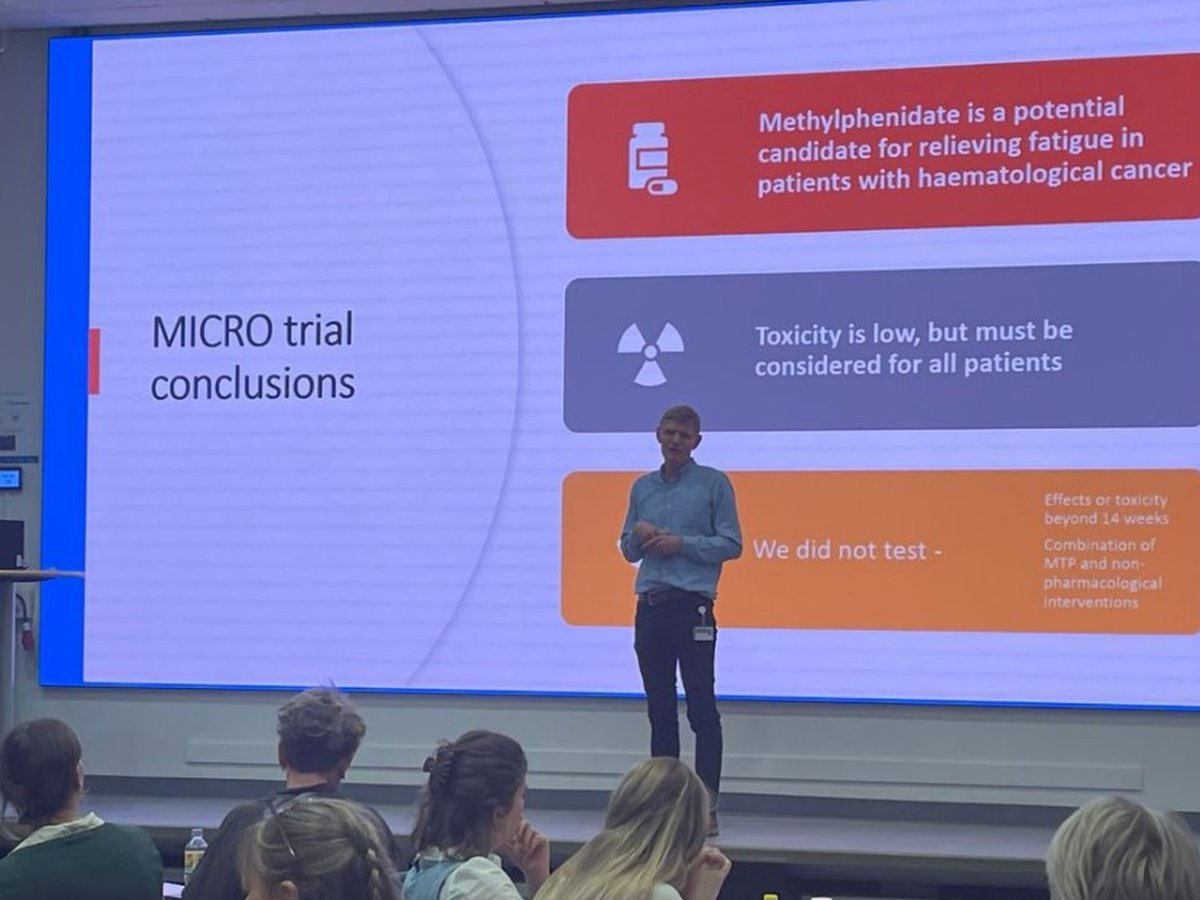
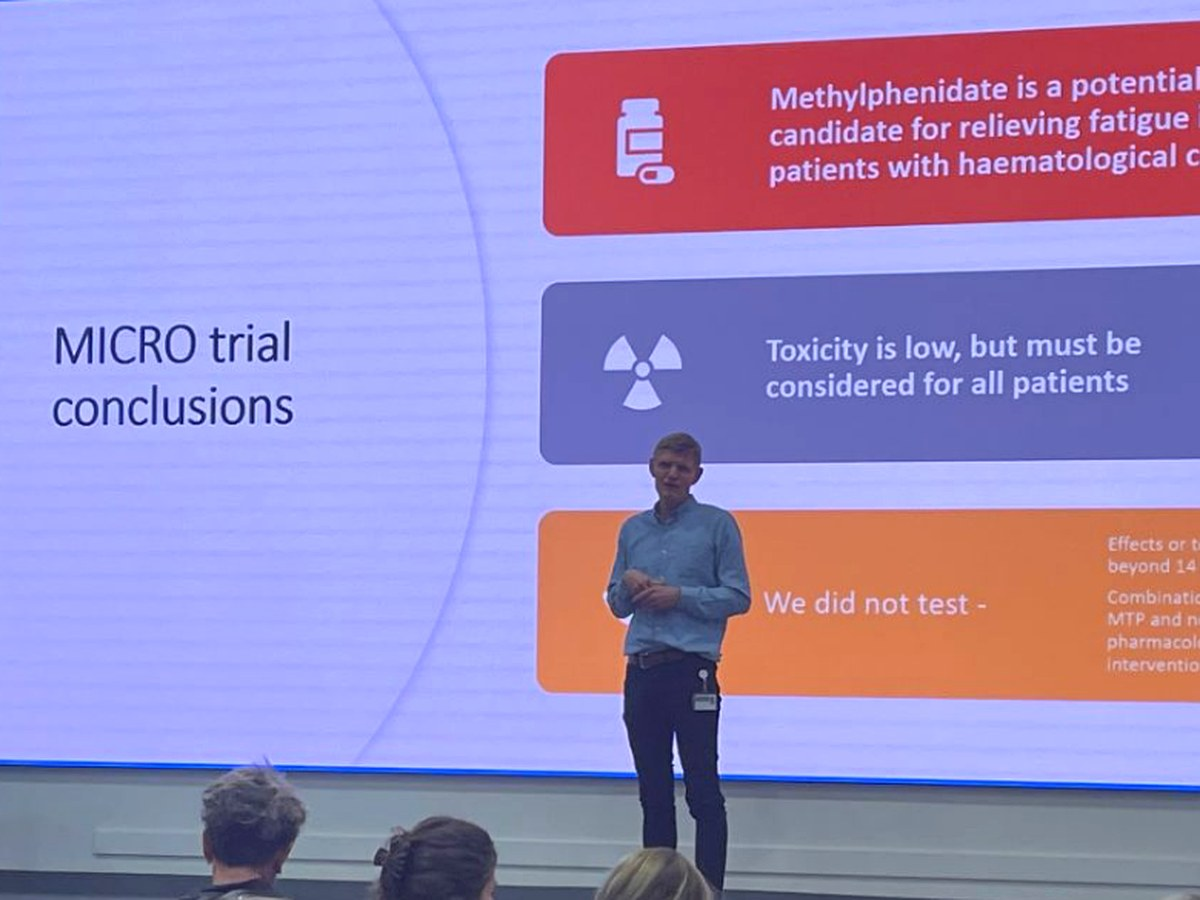
News: closer, brighter Research in Focus photo of Henrik; mention MICRO talk
Claude-Session: https://claude.ai/code/session_0113jsotCNfxH92ByqoEKTTC

diff --git a/index.html b/index.html
@@ -153,7 +153,7 @@
   <div class="card-body">
     <p class="news-date"><time datetime="2026-10-28">October 28, 2026</time></p>
     <h3>Research in Focus at the Department of Hematology</h3>
-    <p>Colleagues from across the Department of Hematology at Odense University Hospital gathered for the annual Research in Focus (Forskning i fokus) afternoon, organized by Henrik Frederiksen. The program covered acute leukemia and hematopathology, lymphoma and cellular therapies, multiple myeloma and amyloidosis, home-based treatment and supportive care, quality of life and population-based research, and benign hematology and frailty. Hans Henrik Knudsen, who is a patient representative in Lene Kongsgaard Nielsen&#x27;s quality of life research at QoLRC, spoke about the role of patient involvement in research. From QoLRC, Henrik Frederiksen, Pia Pedersen, Tine Rosenberg, Anne Møller Clausen and Klara Rydahl presented their work.</p>
+    <p>Colleagues from across the Department of Hematology at Odense University Hospital gathered for the annual Research in Focus (Forskning i fokus) afternoon, organized by Henrik Frederiksen, who also presented the conclusions of the MICRO trial of methylphenidate for fatigue in patients with hematologic cancer. The program covered acute leukemia and hematopathology, lymphoma and cellular therapies, multiple myeloma and amyloidosis, home-based treatment and supportive care, quality of life and population-based research, and benign hematology and frailty. Hans Henrik Knudsen, who is a patient representative in Lene Kongsgaard Nielsen&#x27;s quality of life research at QoLRC, spoke about the role of patient involvement in research. From QoLRC, Henrik Frederiksen, Pia Pedersen, Tine Rosenberg, Anne Møller Clausen and Klara Rydahl presented their work.</p>
     
   </div>
 </li><li class="card news-card">

diff --git a/news/index.html b/news/index.html
@@ -68,7 +68,7 @@
   <div class="card-body">
     <p class="news-date"><time datetime="2026-10-28">October 28, 2026</time></p>
     <h3>Research in Focus at the Department of Hematology</h3>
-    <p>Colleagues from across the Department of Hematology at Odense University Hospital gathered for the annual Research in Focus (Forskning i fokus) afternoon, organized by Henrik Frederiksen. The program covered acute leukemia and hematopathology, lymphoma and cellular therapies, multiple myeloma and amyloidosis, home-based treatment and supportive care, quality of life and population-based research, and benign hematology and frailty. Hans Henrik Knudsen, who is a patient representative in Lene Kongsgaard Nielsen&#x27;s quality of life research at QoLRC, spoke about the role of patient involvement in research. From QoLRC, Henrik Frederiksen, Pia Pedersen, Tine Rosenberg, Anne Møller Clausen and Klara Rydahl presented their work.</p>
+    <p>Colleagues from across the Department of Hematology at Odense University Hospital gathered for the annual Research in Focus (Forskning i fokus) afternoon, organized by Henrik Frederiksen, who also presented the conclusions of the MICRO trial of methylphenidate for fatigue in patients with hematologic cancer. The program covered acute leukemia and hematopathology, lymphoma and cellular therapies, multiple myeloma and amyloidosis, home-based treatment and supportive care, quality of life and population-based research, and benign hematology and frailty. Hans Henrik Knudsen, who is a patient representative in Lene Kongsgaard Nielsen&#x27;s quality of life research at QoLRC, spoke about the role of patient involvement in research. From QoLRC, Henrik Frederiksen, Pia Pedersen, Tine Rosenberg, Anne Møller Clausen and Klara Rydahl presented their work.</p>
     
   </div>
 </li><li class="card news-card">

diff --git a/da/index.html b/da/index.html
@@ -153,7 +153,7 @@
   <div class="card-body">
     <p class="news-date"><time datetime="2026-10-28">28. oktober 2026</time></p>
     <h3>Forskning i fokus på Hæmatologisk Afdeling</h3>
-    <p>Kolleger fra hele Hæmatologisk Afdeling på Odense Universitetshospital samledes til den årlige eftermiddag Forskning i fokus, som Henrik Frederiksen stod for. Programmet omfattede akut leukæmi og hæmatopatologi, lymfom og cellulære terapier, myelomatose og amyloidose, hjemmebehandling og understøttende behandling, livskvalitet og populationsbaseret forskning samt benign hæmatologi og skrøbelighed. Hans Henrik Knudsen, som er patientrepræsentant i Lene Kongsgaard Nielsens livskvalitetsforskning i QoLRC, fortalte om betydningen af patientinddragelse i forskningen. Fra QoLRC præsenterede Henrik Frederiksen, Pia Pedersen, Tine Rosenberg, Anne Møller Clausen og Klara Rydahl deres arbejde.</p>
+    <p>Kolleger fra hele Hæmatologisk Afdeling på Odense Universitetshospital samledes til den årlige eftermiddag Forskning i fokus, som Henrik Frederiksen stod for. Han præsenterede også konklusionerne fra MICRO-forsøget med methylphenidat mod træthed hos patienter med hæmatologisk kræft. Programmet omfattede akut leukæmi og hæmatopatologi, lymfom og cellulære terapier, myelomatose og amyloidose, hjemmebehandling og understøttende behandling, livskvalitet og populationsbaseret forskning samt benign hæmatologi og skrøbelighed. Hans Henrik Knudsen, som er patientrepræsentant i Lene Kongsgaard Nielsens livskvalitetsforskning i QoLRC, fortalte om betydningen af patientinddragelse i forskningen. Fra QoLRC præsenterede Henrik Frederiksen, Pia Pedersen, Tine Rosenberg, Anne Møller Clausen og Klara Rydahl deres arbejde.</p>
     
   </div>
 </li><li class="card news-card">

diff --git a/da/news/index.html b/da/news/index.html
@@ -68,7 +68,7 @@
   <div class="card-body">
     <p class="news-date"><time datetime="2026-10-28">28. oktober 2026</time></p>
     <h3>Forskning i fokus på Hæmatologisk Afdeling</h3>
-    <p>Kolleger fra hele Hæmatologisk Afdeling på Odense Universitetshospital samledes til den årlige eftermiddag Forskning i fokus, som Henrik Frederiksen stod for. Programmet omfattede akut leukæmi og hæmatopatologi, lymfom og cellulære terapier, myelomatose og amyloidose, hjemmebehandling og understøttende behandling, livskvalitet og populationsbaseret forskning samt benign hæmatologi og skrøbelighed. Hans Henrik Knudsen, som er patientrepræsentant i Lene Kongsgaard Nielsens livskvalitetsforskning i QoLRC, fortalte om betydningen af patientinddragelse i forskningen. Fra QoLRC præsenterede Henrik Frederiksen, Pia Pedersen, Tine Rosenberg, Anne Møller Clausen og Klara Rydahl deres arbejde.</p>
+    <p>Kolleger fra hele Hæmatologisk Afdeling på Odense Universitetshospital samledes til den årlige eftermiddag Forskning i fokus, som Henrik Frederiksen stod for. Han præsenterede også konklusionerne fra MICRO-forsøget med methylphenidat mod træthed hos patienter med hæmatologisk kræft. Programmet omfattede akut leukæmi og hæmatopatologi, lymfom og cellulære terapier, myelomatose og amyloidose, hjemmebehandling og understøttende behandling, livskvalitet og populationsbaseret forskning samt benign hæmatologi og skrøbelighed. Hans Henrik Knudsen, som er patientrepræsentant i Lene Kongsgaard Nielsens livskvalitetsforskning i QoLRC, fortalte om betydningen af patientinddragelse i forskningen. Fra QoLRC præsenterede Henrik Frederiksen, Pia Pedersen, Tine Rosenberg, Anne Møller Clausen og Klara Rydahl deres arbejde.</p>
     
   </div>
 </li><li class="card news-card">

diff --git a/src/content.py b/src/content.py
@@ -730,8 +730,8 @@ NEWS = [
     {"date": "2026-10-28",
      "title": {"en": "Research in Focus at the Department of Hematology",
                "da": "Forskning i fokus på Hæmatologisk Afdeling"},
-     "text": {"en": "Colleagues from across the Department of Hematology at Odense University Hospital gathered for the annual Research in Focus (Forskning i fokus) afternoon, organized by Henrik Frederiksen. The program covered acute leukemia and hematopathology, lymphoma and cellular therapies, multiple myeloma and amyloidosis, home-based treatment and supportive care, quality of life and population-based research, and benign hematology and frailty. Hans Henrik Knudsen, who is a patient representative in Lene Kongsgaard Nielsen's quality of life research at QoLRC, spoke about the role of patient involvement in research. From QoLRC, Henrik Frederiksen, Pia Pedersen, Tine Rosenberg, Anne Møller Clausen and Klara Rydahl presented their work.",
-              "da": "Kolleger fra hele Hæmatologisk Afdeling på Odense Universitetshospital samledes til den årlige eftermiddag Forskning i fokus, som Henrik Frederiksen stod for. Programmet omfattede akut leukæmi og hæmatopatologi, lymfom og cellulære terapier, myelomatose og amyloidose, hjemmebehandling og understøttende behandling, livskvalitet og populationsbaseret forskning samt benign hæmatologi og skrøbelighed. Hans Henrik Knudsen, som er patientrepræsentant i Lene Kongsgaard Nielsens livskvalitetsforskning i QoLRC, fortalte om betydningen af patientinddragelse i forskningen. Fra QoLRC præsenterede Henrik Frederiksen, Pia Pedersen, Tine Rosenberg, Anne Møller Clausen og Klara Rydahl deres arbejde."},
+     "text": {"en": "Colleagues from across the Department of Hematology at Odense University Hospital gathered for the annual Research in Focus (Forskning i fokus) afternoon, organized by Henrik Frederiksen, who also presented the conclusions of the MICRO trial of methylphenidate for fatigue in patients with hematologic cancer. The program covered acute leukemia and hematopathology, lymphoma and cellular therapies, multiple myeloma and amyloidosis, home-based treatment and supportive care, quality of life and population-based research, and benign hematology and frailty. Hans Henrik Knudsen, who is a patient representative in Lene Kongsgaard Nielsen's quality of life research at QoLRC, spoke about the role of patient involvement in research. From QoLRC, Henrik Frederiksen, Pia Pedersen, Tine Rosenberg, Anne Møller Clausen and Klara Rydahl presented their work.",
+              "da": "Kolleger fra hele Hæmatologisk Afdeling på Odense Universitetshospital samledes til den årlige eftermiddag Forskning i fokus, som Henrik Frederiksen stod for. Han præsenterede også konklusionerne fra MICRO-forsøget med methylphenidat mod træthed hos patienter med hæmatologisk kræft. Programmet omfattede akut leukæmi og hæmatopatologi, lymfom og cellulære terapier, myelomatose og amyloidose, hjemmebehandling og understøttende behandling, livskvalitet og populationsbaseret forskning samt benign hæmatologi og skrøbelighed. Hans Henrik Knudsen, som er patientrepræsentant i Lene Kongsgaard Nielsens livskvalitetsforskning i QoLRC, fortalte om betydningen af patientinddragelse i forskningen. Fra QoLRC præsenterede Henrik Frederiksen, Pia Pedersen, Tine Rosenberg, Anne Møller Clausen og Klara Rydahl deres arbejde."},
      "photo": "forskning-i-fokus-2026.jpg", "link": ""},
     {"date": "2026-10-01",
      "title": {"en": "Funding from Stiftelsen Dam for the REMNANT quality of life sub-study",
